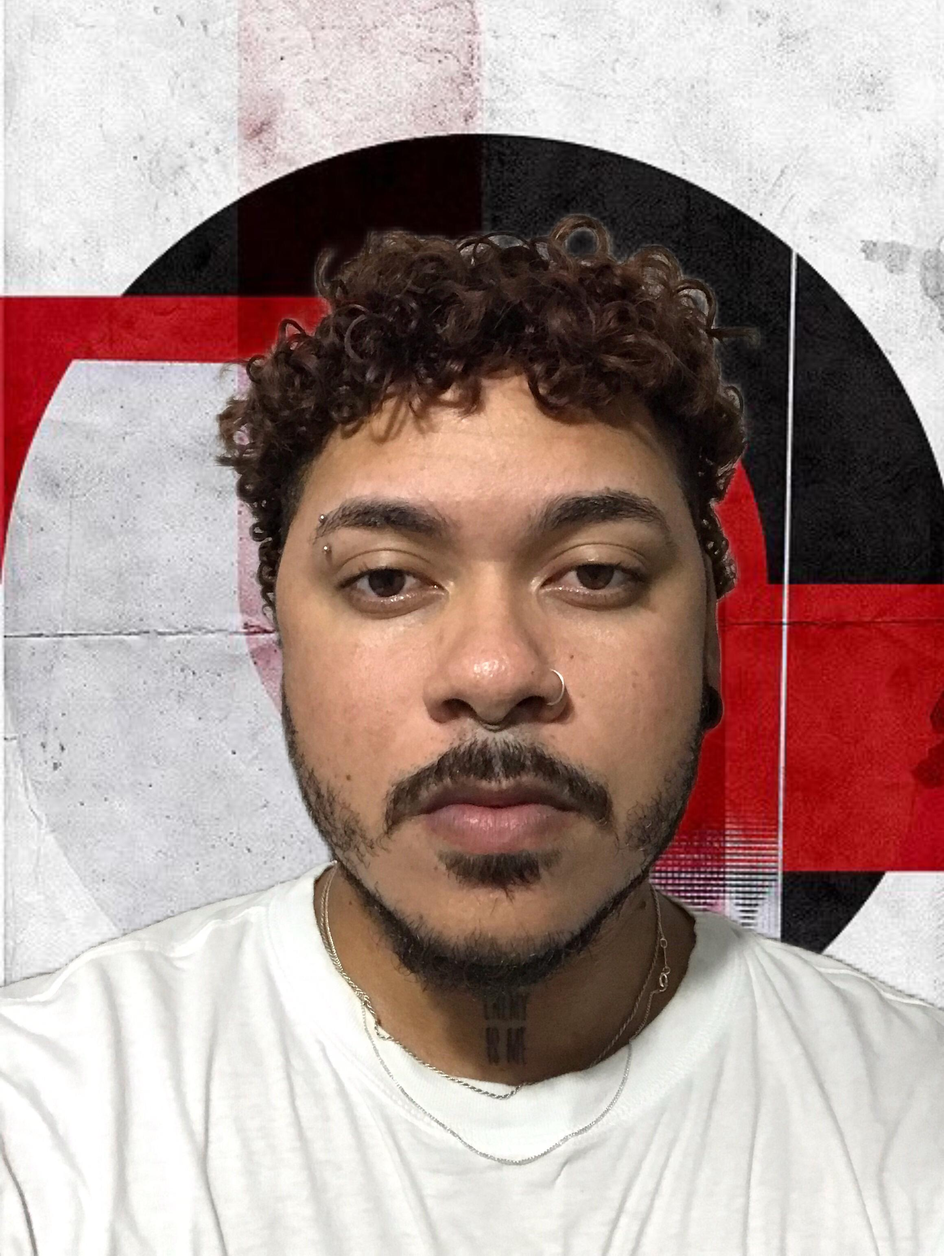
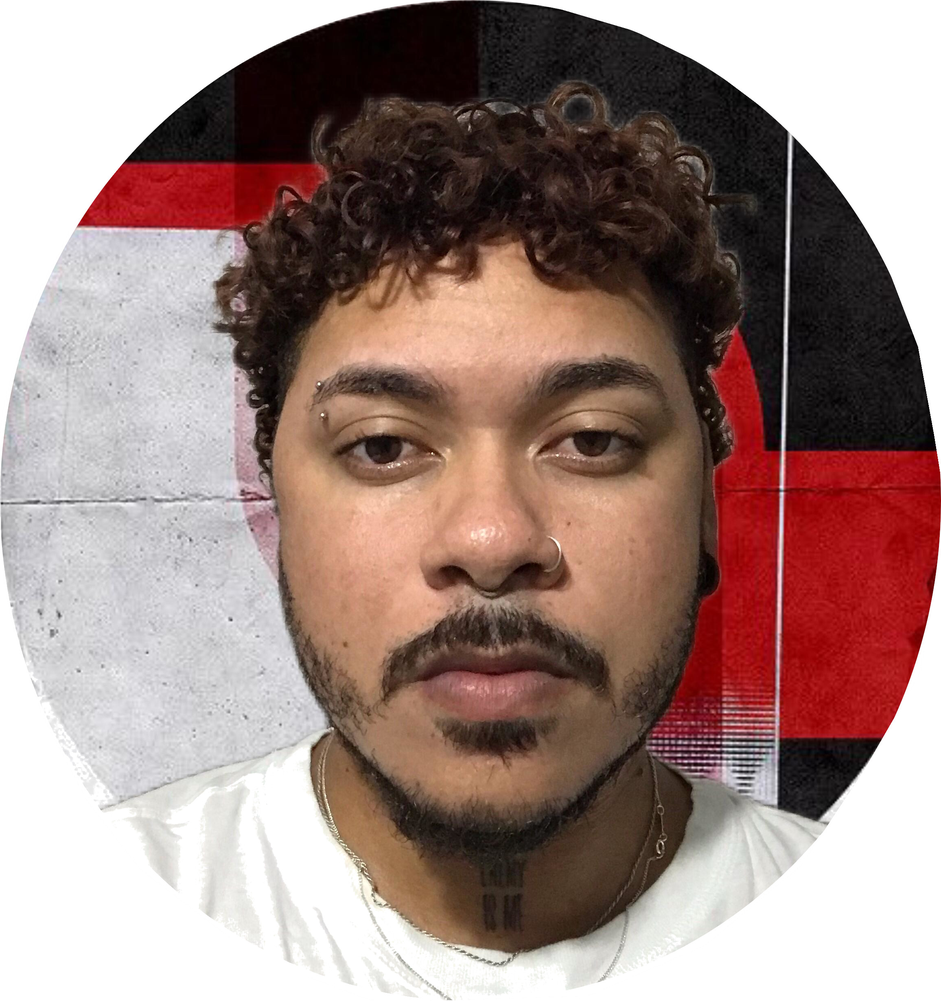
feat: Estilização de interface iniciada

diff --git a/luizotvio/assets/css/style.css b/luizotvio/assets/css/style.css
@@ -1,0 +1,123 @@
+@import url('https://fonts.googleapis.com/css2?family=Montserrat:ital,wght@0,100..900;1,100..900&display=swap');
+
+*{
+    margin: 0;
+    padding: 0;
+    box-sizing: border-box;
+    font-family: 'Montserrat', system-ui, -apple-system, BlinkMacSystemFont, 'Segoe UI', Roboto, Oxygen, Ubuntu, Cantarell, 'Open Sans', 'Helvetica Neue', sans-serif;
+    list-style: none;
+}
+
+:root{
+    --background-gradient: radial-gradient(circle, rgba(255,0,0,1) 0%, rgba(0,0,0,1) 76%);
+    --black-color: #000000;
+    --red-color: #e53939;
+    --transparent-red-color: #e539391a;
+    --white-color: #ffffff;
+}
+html{
+    scroll-behavior: smooth;
+}
+
+body{
+    width: 100%;
+    min-height: 100vh;
+    background: var(--background-gradient);
+    background-repeat: no-repeat;
+    background-attachment: fixed;
+    color: var(--white-color);
+}
+
+header{
+    width: 100%;
+    height: auto;
+    display: flex;
+    justify-content: center;
+    align-items: center;
+}
+.nav-sections{
+    width: 80%;
+    margin: 20px 10px;
+    padding: 20px;
+    border-radius: 12px;
+    background-color: var(--transparent-red-color);
+    backdrop-filter: blur(16px) saturate(120%);
+}
+.nav-sections ul{
+    display: flex;
+    flex-wrap: wrap;
+    align-items: center;
+    justify-content: space-evenly;
+    gap: 0.5rem;
+}
+.nav-sections li a{
+    color: var(--white-color);
+    text-decoration: none;
+    transition: 0.5s;
+    font-weight: bold;
+}
+.nav-sections li a:hover{
+    color: var(--red-color);
+    text-decoration: underline;
+}
+
+main{
+    width: 100%;
+    min-height: 100vh;
+    display: flex;
+    flex-direction: column;
+    align-items: center;
+    justify-content: center;
+}
+
+section{
+    width: 80%;
+    margin: 50px 10px;
+    text-align: center;
+}
+section h1, h2, section p{
+    margin-bottom: 1.25rem;
+    line-height: 1.8rem;
+}
+section h1{
+    font-size: 1.25rem;
+}
+
+section figure{
+    margin: 20px 0;
+}
+section figure img{
+    width: 22%;
+    border-radius: 50%;
+}
+
+footer{
+    width: 100%;
+    text-align: center;
+}
+footer ul{
+    display: flex;
+    justify-content: center;
+    align-items: center;
+    margin-top: 1rem;
+    gap: 2rem;
+}
+footer li a{
+    color: var(--black-color);
+    font-size: 1.875rem;
+    filter: drop-shadow(1px 1px 5px var(--red-color));
+    
+}
+footer li:hover{
+    transform: scale(2) translate(5%);
+    transition: 0.7s;
+}
+footer li a:hover{
+    color: var(--red-color);
+}
+footer .copyright{
+    font-size: .9375rem;
+    background-color: var(--black-color);
+    padding: .625rem 0;
+    margin-top: 20px;
+}

diff --git a/luizotvio/index.html b/luizotvio/index.html
@@ -12,17 +12,17 @@
 </head>
 
 <body>
+    <header>
+        <nav class="nav-sections">
+            <ul>
+                <li><a href="#sobre">Sobre</a></li>
+                <li><a href="#gostos-pessoais">Gostos Pessoais</a></li>
+                <li><a href="#motivacao">Motivações</a></li>
+                <li><a href="#contato">Entre em contato</a></li>
+            </ul>
+        </nav>
+    </header>
     <main>
-        <header>
-            <nav>
-                <ul>
-                    <li><a href="#sobre">Sobre</a></li>
-                    <li><a href="#">Gostos Pessoais</a></li>
-                    <li><a href="#">Motivações</a></li>
-                    <li><a href="#">Entre em contato</a></li>
-                </ul>
-            </nav>
-        </header>
         <section>
             <h1>Olá, sou Luiz Otávio dos Santos, e hoje você vai conhecer um pouco sobre mim.</h1>
             <figure>
@@ -35,7 +35,7 @@
                 aos usuários.
             </p>
         </section>
-        <section id="#gostos-pesoais">
+        <section id="gostos-pessoais">
             <h2>Meus gostos pessoais</h2>
             <p>
                 Se você procura alguém que adora viver novas experiências, está no lugar certo! Nos momentos de lazer,
@@ -53,7 +53,8 @@
             </p>
         </section>
     </main>
-    <footer>
+    <footer id="contato">
+        <p>Minhas redes</p>
         <ul>
             <li><a href="https://www.linkedin.com/in/luizotvioo/" target="_blank" rel="noopener noreferrer"><i
                         class="bi bi-linkedin"></i></a></li>
@@ -62,7 +63,7 @@
             <li><a href="https://www.instagram.com/luizotviodev/" target="_blank" rel="noopener noreferrer"><i
                         class="bi bi-instagram"></i></a></li>
         </ul>
-        <p>© 2024 Desenvolvido por Luiz Otávio</p>
+        <p class="copyright">© 2024 Desenvolvido por Luiz Otávio</p>
     </footer>
 </body>
 
